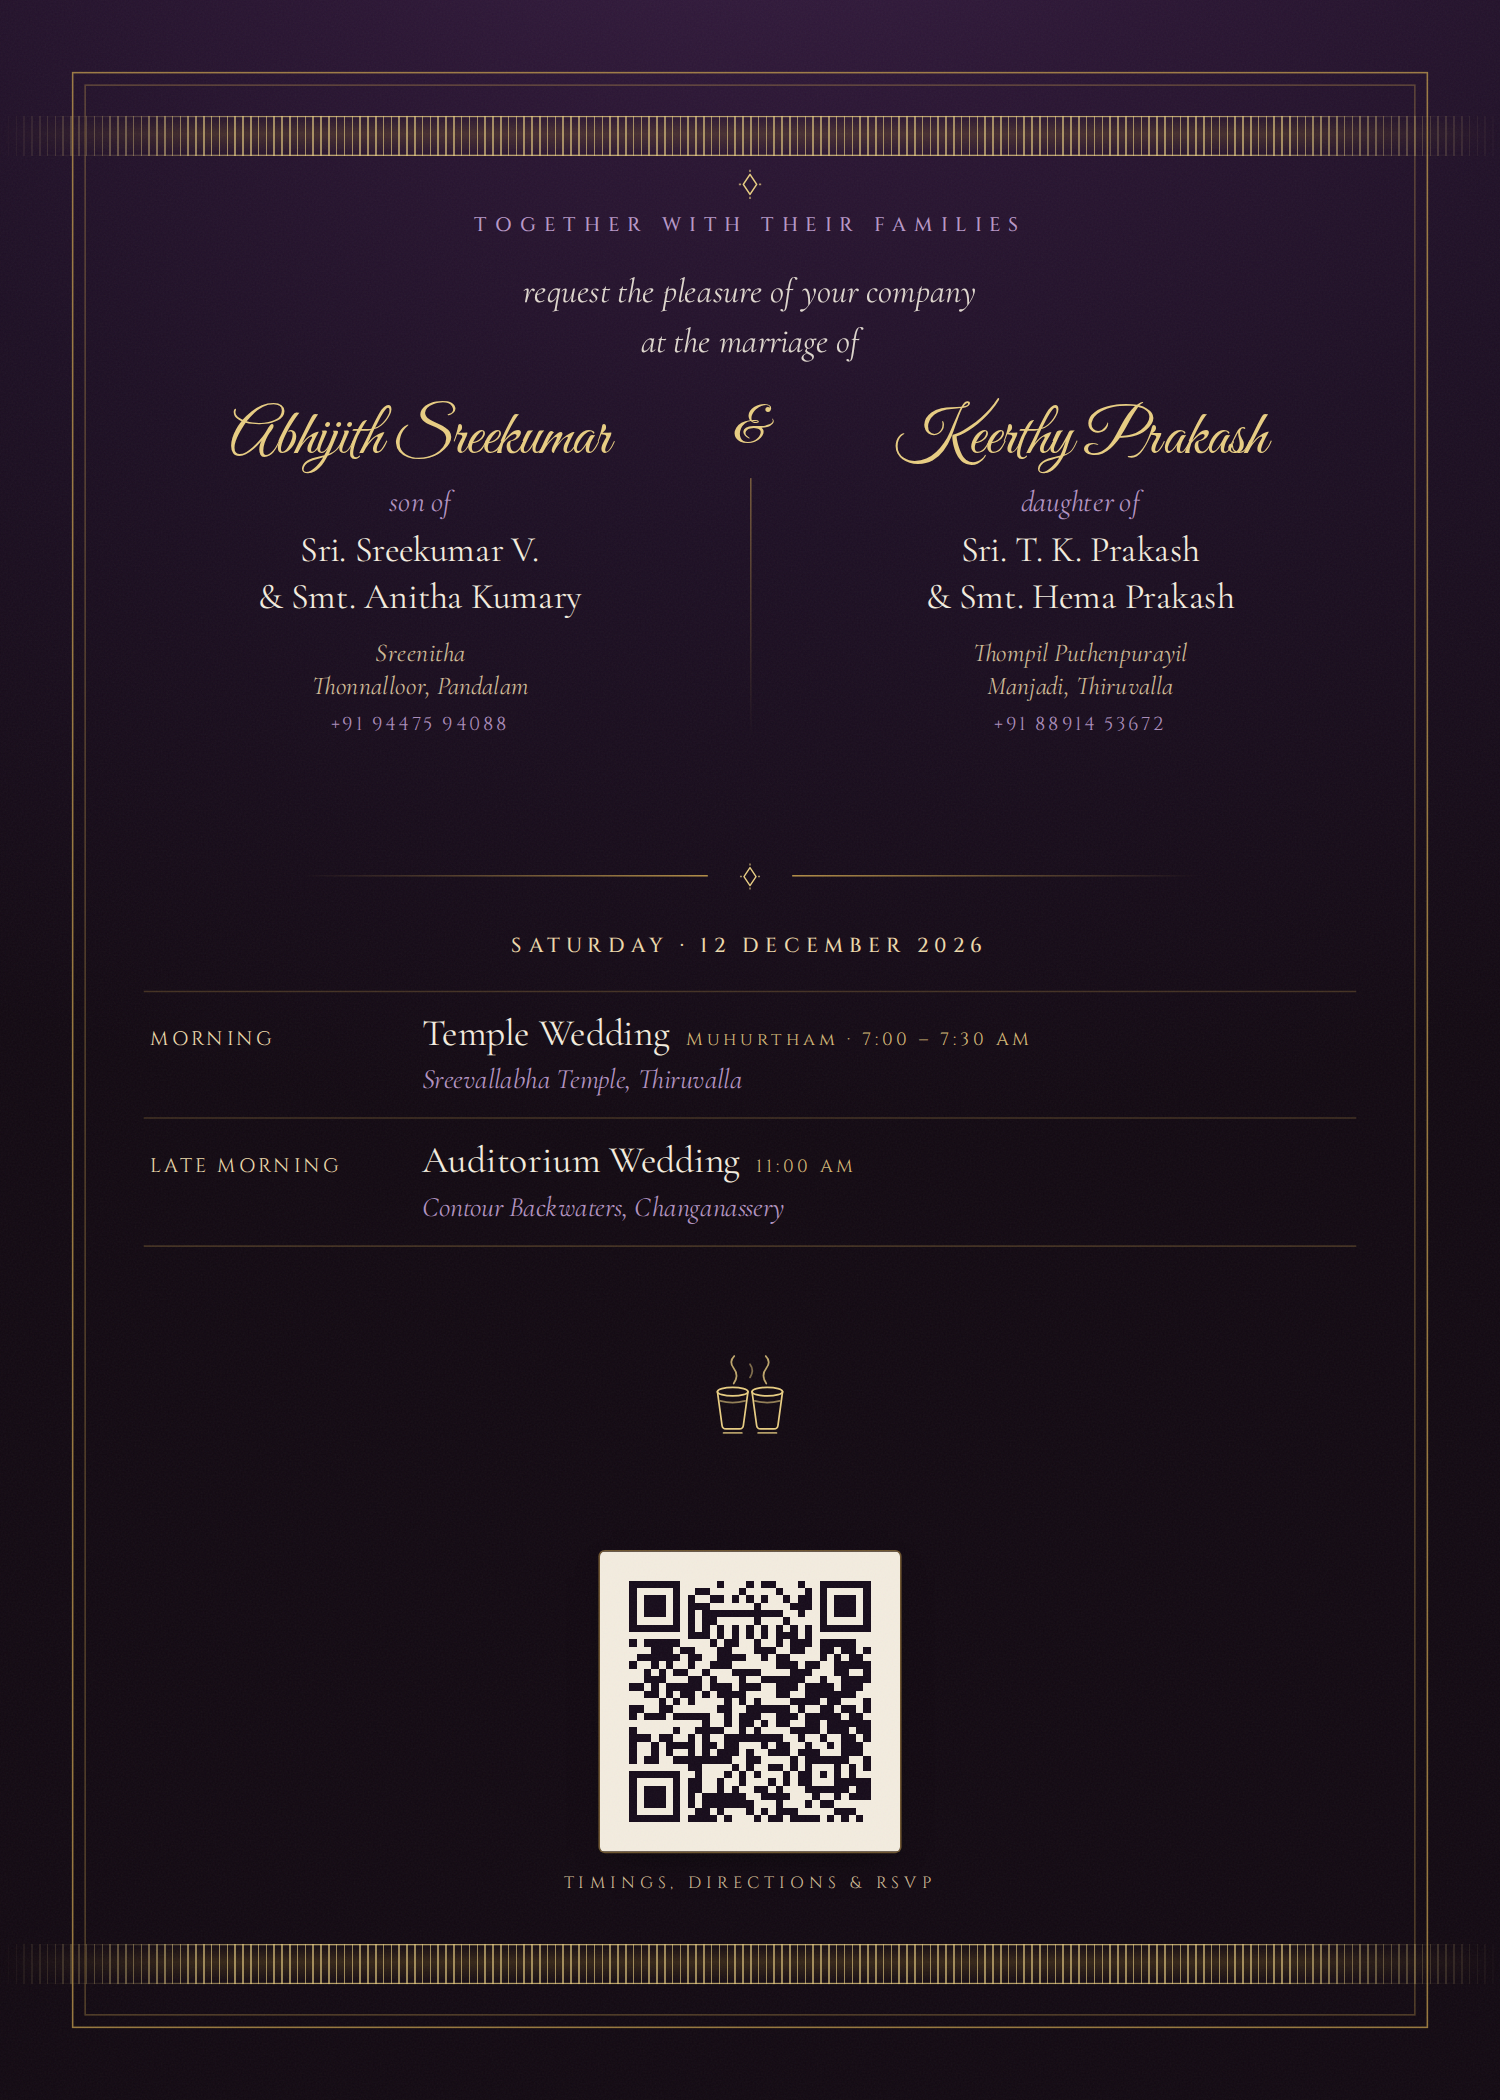
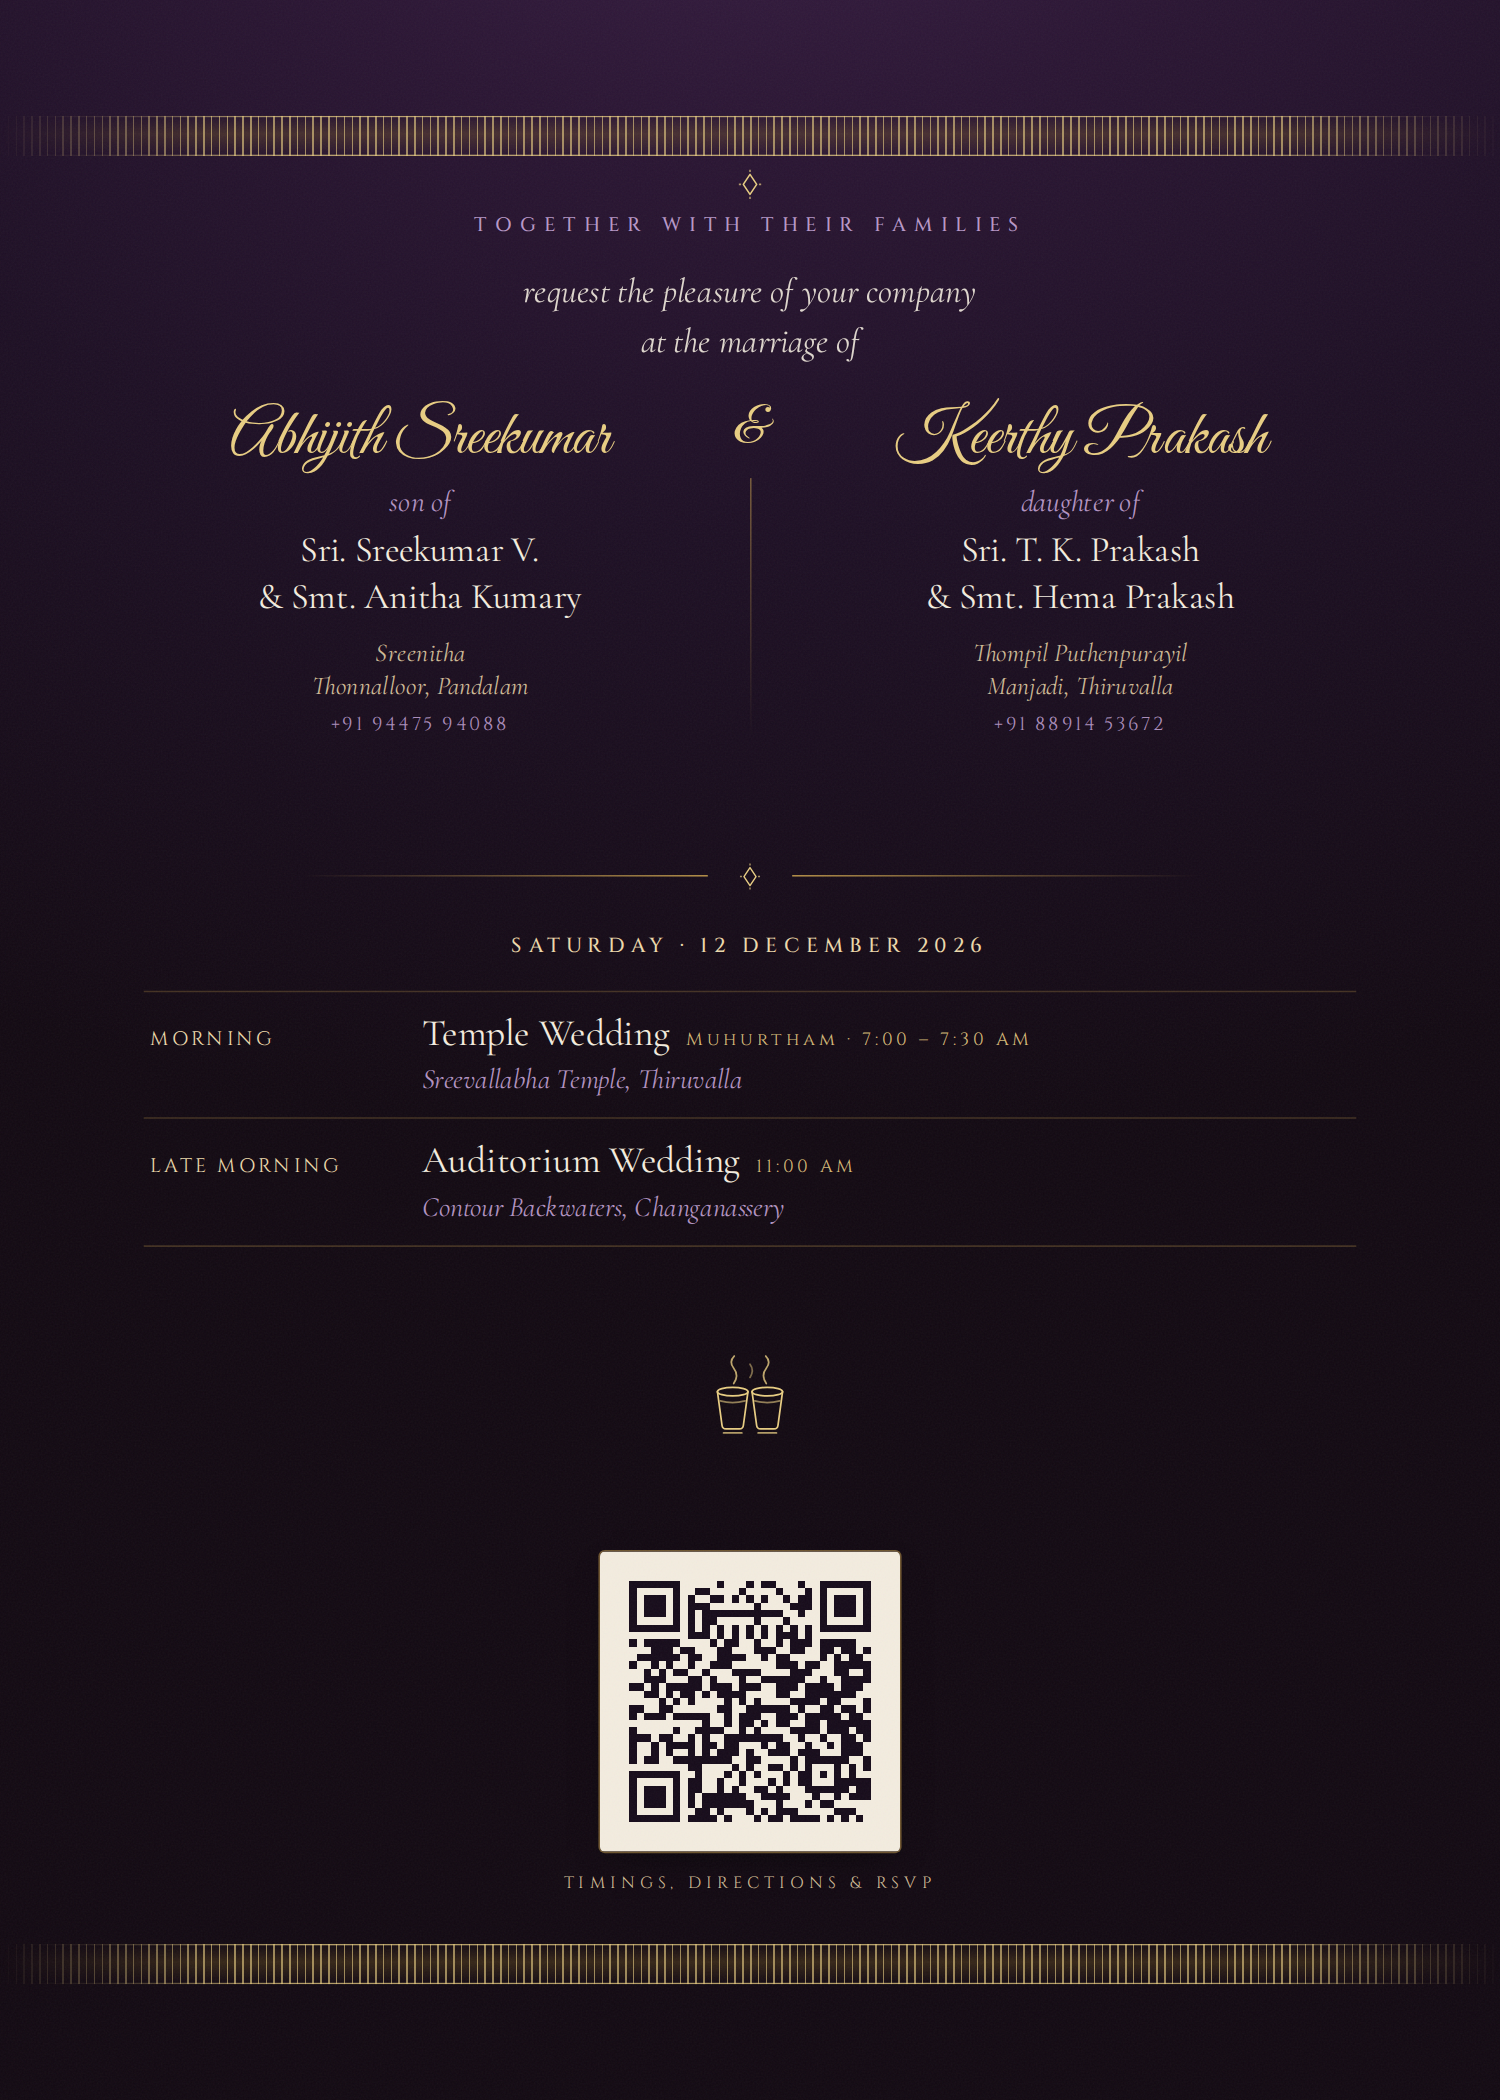
Drop the rectangular gold frame
The kasavu band at the head and foot is the whole edge treatment now. The
inset rectangle was a second, competing border around it — and a mundu's kara
runs across the cloth, it does not box it in, so losing the frame is closer to
the thing the band is imitating.

Off the card front, both card backs and the envelope front; .kasavu-frame is
gone from shared.css with them.

Claude-Session: https://claude.ai/code/session_01U3eNzvzbkYwe2F9QhNWExs

diff --git a/invitation/shared.css b/invitation/shared.css
@@ -150,23 +150,9 @@ body.bleed .sheet > .inner {
   inset: 0;
 }
 
-/* ---------- kasavu border ------------------------------------------------
-   A Kerala mundu's kara: a fine outer thread, a breath of cloth, then the
-   woven gold band. Used as the card's frame and as the heavy bottom band.  */
-
-.kasavu-frame {
-  position: absolute;
-  inset: 46px;
-  border: 1.5px solid var(--kara-line);
-  pointer-events: none;
-}
-
-.kasavu-frame::before {
-  content: "";
-  position: absolute;
-  inset: 7px;
-  border: 0.75px solid var(--kara-line-soft);
-}
+/* ---------- kasavu band --------------------------------------------------
+   A Kerala mundu's kara, run across the head and foot of the sheet. There is
+   no rectangular frame: the woven band is the whole edge treatment.        */
 
 /* the woven band — fine vertical gold threads, like the kara of a mundu */
 .kasavu-band {

diff --git a/invitation/envelope-front.html b/invitation/envelope-front.html
@@ -121,7 +121,6 @@
 <body>
 <div class="sheet envelope ivory">
   <div class="inner">
-    <div class="kasavu-frame"></div>
     <div class="kasavu-band top"></div>
     <div class="kasavu-band bottom"></div>
 

diff --git a/invitation/card-front.html b/invitation/card-front.html
@@ -95,7 +95,6 @@
 <body>
 <div class="sheet card">
   <div class="inner">
-    <div class="kasavu-frame"></div>
     <div class="kasavu-band top"></div>
     <div class="kasavu-band bottom"></div>
 

diff --git a/invitation/card-back-all.html b/invitation/card-back-all.html
@@ -9,7 +9,6 @@
 <body>
 <div class="sheet card">
   <div class="inner">
-    <div class="kasavu-frame"></div>
     <div class="kasavu-band top"></div>
     <div class="kasavu-band bottom"></div>
 

diff --git a/invitation/card-back-public.html b/invitation/card-back-public.html
@@ -9,7 +9,6 @@
 <body>
 <div class="sheet card">
   <div class="inner">
-    <div class="kasavu-frame"></div>
     <div class="kasavu-band top"></div>
     <div class="kasavu-band bottom"></div>
 

diff --git a/invitation/README.md b/invitation/README.md
@@ -47,7 +47,7 @@ Both come out of one set of theme tokens declared in `:root` in `shared.css`.
 `.sheet.ivory` flips a whole sheet (the envelope front); `.on-ivory` flips a
 *region* of one (the flap on the envelope back, which is an ivory island on a
 plum sheet). Same declaration block, two selectors. Shared components
-(`.kasavu-frame`, `.kasavu-band`, `.label`, `.rule`, `.motif`) read those tokens
+(`.kasavu-band`, `.label`, `.rule`, `.motif`) read those tokens
 and **must not hardcode a colour**; a literal in one of them puts the plum
 sheet's ink on the ivory sheet.
 
